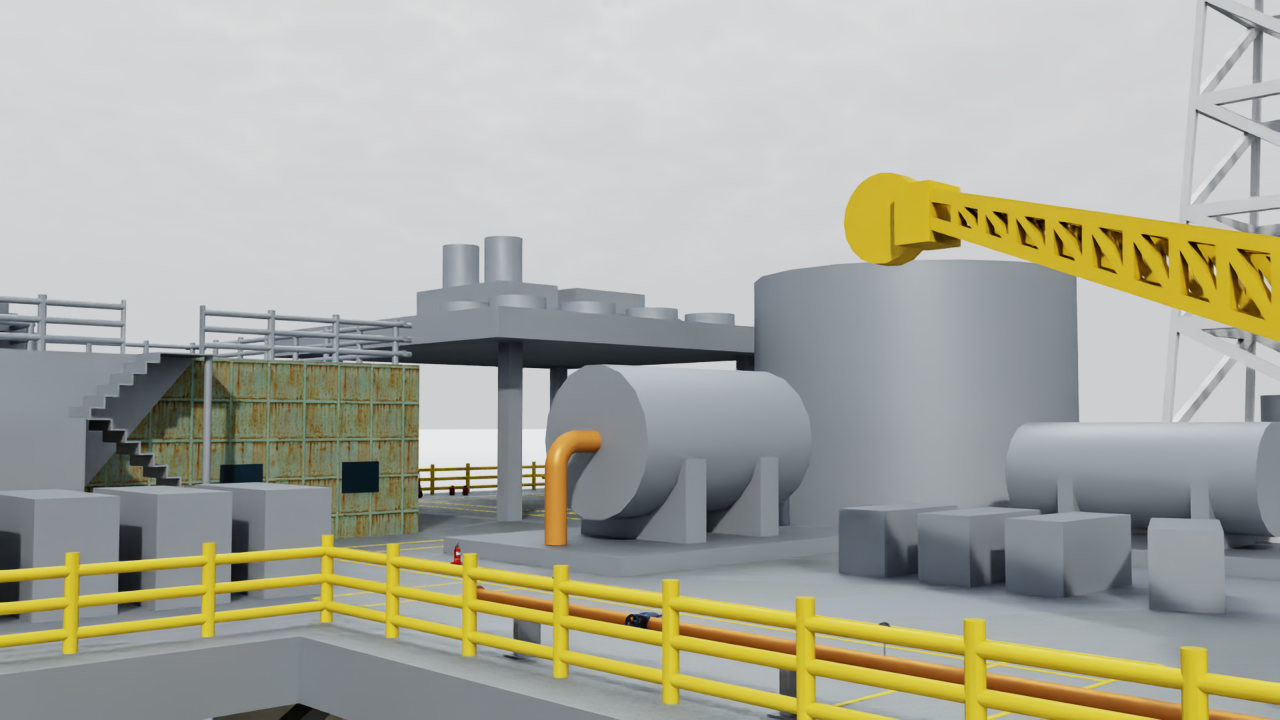
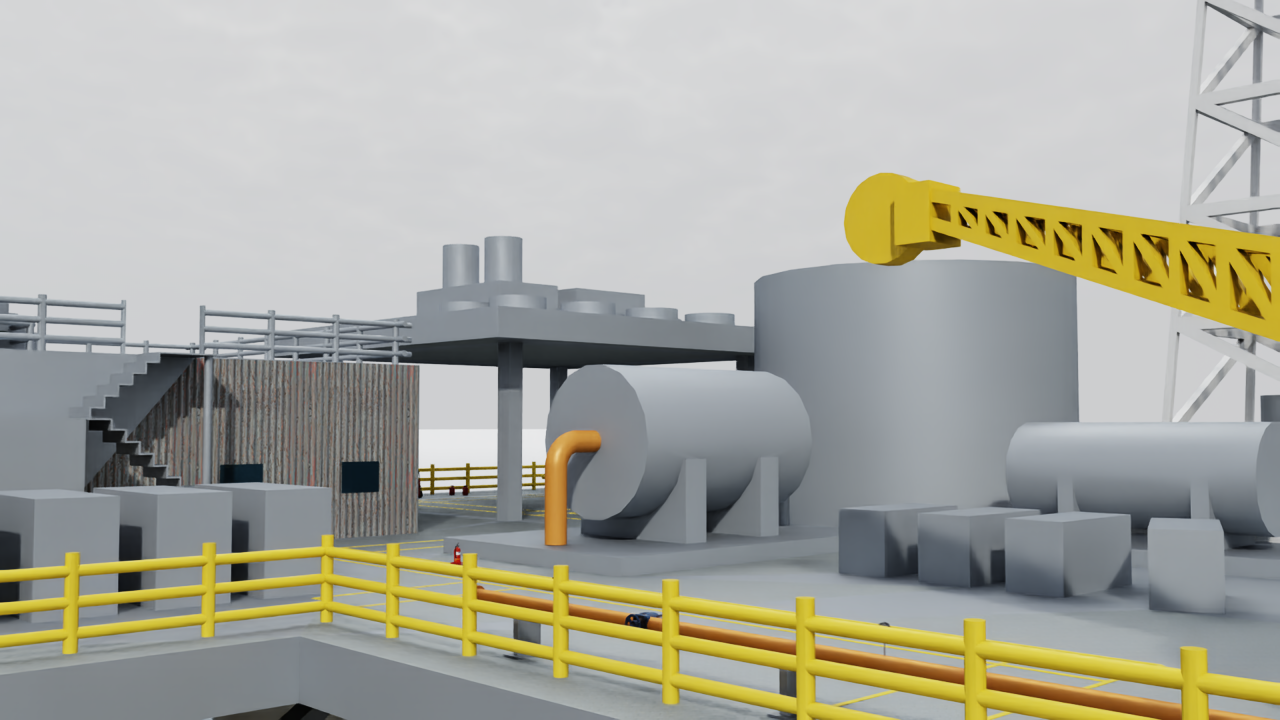
Use worn_corrugated_iron on the rig's building walls

Changed region(s): [[0.0625, 0.4889, 0.3438, 0.7639]]

diff --git a/sim/build_full_rig.py b/sim/build_full_rig.py
@@ -62,7 +62,7 @@ PAINTS = {
     "module_grey": ((0.46, 0.49, 0.51), 0.55, 0.1, CLADDING),
 }
 TILE_METRES = {"deck": 2.5, "concrete": 6.0, "module_white": 4.0, "module_blue": 4.0, "module_grey": 4.0}
-WALL_TEXTURE = "rusty_metal_grid"
+WALL_TEXTURE = "worn_corrugated_iron"
 WALL_MATERIALS = ("module_white", "module_blue", "module_grey")
 SEA_TILE_METRES = 70.0
 # Sea haze. Saved in the scene so it applies when anyone opens the rig. Distances are in metres.

diff --git a/sim/tools/texture_sheet.py b/sim/tools/texture_sheet.py
@@ -23,7 +23,8 @@ COLUMNS = 4
 USED_BY = {
     "metal_plate": "Full rig: floor relief",
     "box_profile_metal_sheet": "Not used yet",
-    "rusty_metal_grid": "Full rig: building walls",
+    "rusty_metal_grid": "Not used yet",
+    "worn_corrugated_iron": "Full rig: building walls",
     "concrete_floor_damaged_01": "Full rig: leg relief",
     "metal_grate_rusty": "Deck scene",
     "rusty_metal_02": "Deck scene",
